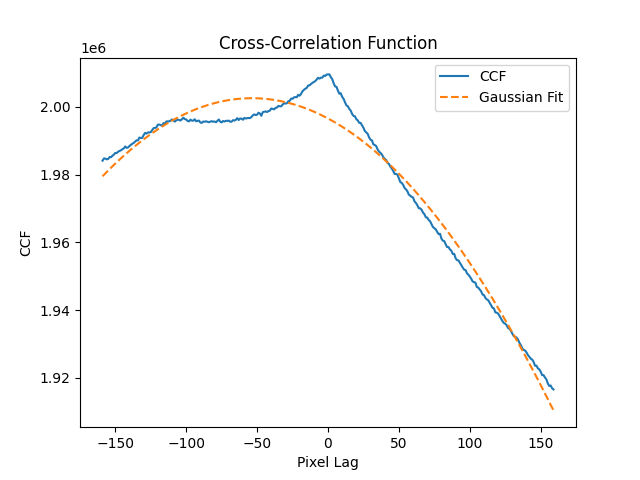
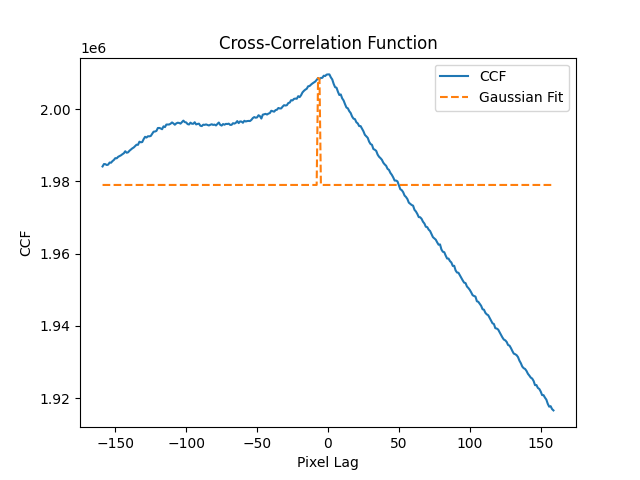
Asked AI for help with getting the wrong RV values. It said to just add a +C to the Gaussian model ,which seems to make the RV value correct at least. Now I just need to figure out the error and the plot.

diff --git a/radialVelocityCalc.py b/radialVelocityCalc.py
@@ -33,14 +33,14 @@ def main():
     obsWavelengths, obsFluxes, tempWavelengths, tempFluxes = dp.makeOverlap(obsWavelengths, obsFluxes, tempWavelengths, tempFluxes)
     newWavelengths, newObsFluxes, newTempFluxes = dp.interpolation(obsWavelengths, obsFluxes, tempWavelengths, tempFluxes)
     lags, ccfValues = ccf.performCCF(newObsFluxes, newTempFluxes, newWavelengths)
-    A, k0, sigma = ccf.fitGaussian(lags, ccfValues)
+    A, k0, sigma, C = ccf.fitGaussian(lags, ccfValues)
     rv = ccf.calculateFinalRV(k0, newWavelengths, templateRV, barycorrObs, barycorrTemp)
     error = ccf.rvError(newTempFluxes, newWavelengths, A)
     print("Radial velocity: " + str(rv) + " and error: " + str(error))
 
 
     plt.plot(lags, ccfValues, label='CCF')
-    plt.plot(lags, ccf.gaussian(lags, A, k0, sigma), label='Gaussian Fit', linestyle='--')
+    plt.plot(lags, ccf.gaussian(lags, A, k0, sigma, C), label='Gaussian Fit', linestyle='--')
     plt.xlabel("Pixel Lag")
     plt.ylabel("CCF")
     plt.legend()

diff --git a/ccf.py b/ccf.py
@@ -32,12 +32,12 @@ def least_squares_fit(x, y, model, guess):
     res = minimize(statistic, guess)
 
     return res.x
-def gaussian(k, A, k0, sigma):
-    return A * np.exp(-((k - k0)**2) / (2 * sigma**2))
+def gaussian(k, A, k0, sigma, C):
+    return A * np.exp(-((k - k0)**2) / (2 * sigma**2)) + C
 def fitGaussian(lags, ccfValues):
-    guess = np.array([np.max(ccfValues), lags[np.argmax(ccfValues)], 10]) # guess for A, k0, sigma
-    A, k0, sigma = least_squares_fit(lags, ccfValues, gaussian, guess)
-    return A, k0, sigma
+    guess = np.array([np.max(ccfValues), lags[np.argmax(ccfValues)], 10, np.median(ccfValues)]) # guess for A, k0, sigma
+    A, k0, sigma, C = least_squares_fit(lags, ccfValues, gaussian, guess)
+    return A, k0, sigma, C
 def rvError(templateFluxes, wavelengthGrid, A):
     rMax = A / np.sum(templateFluxes**2)
     N = wavelengthGrid.size
